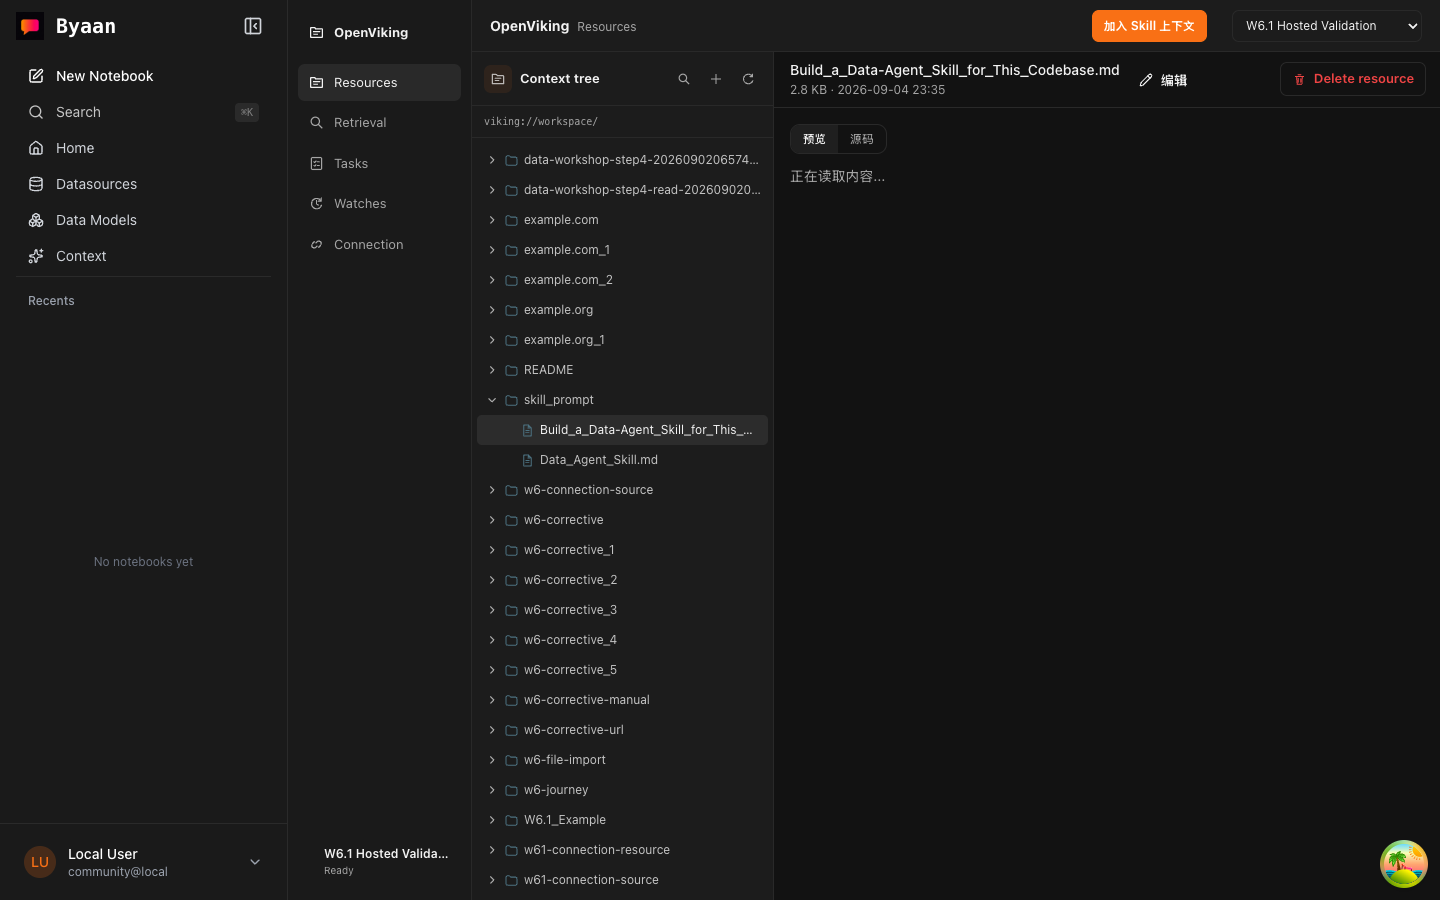
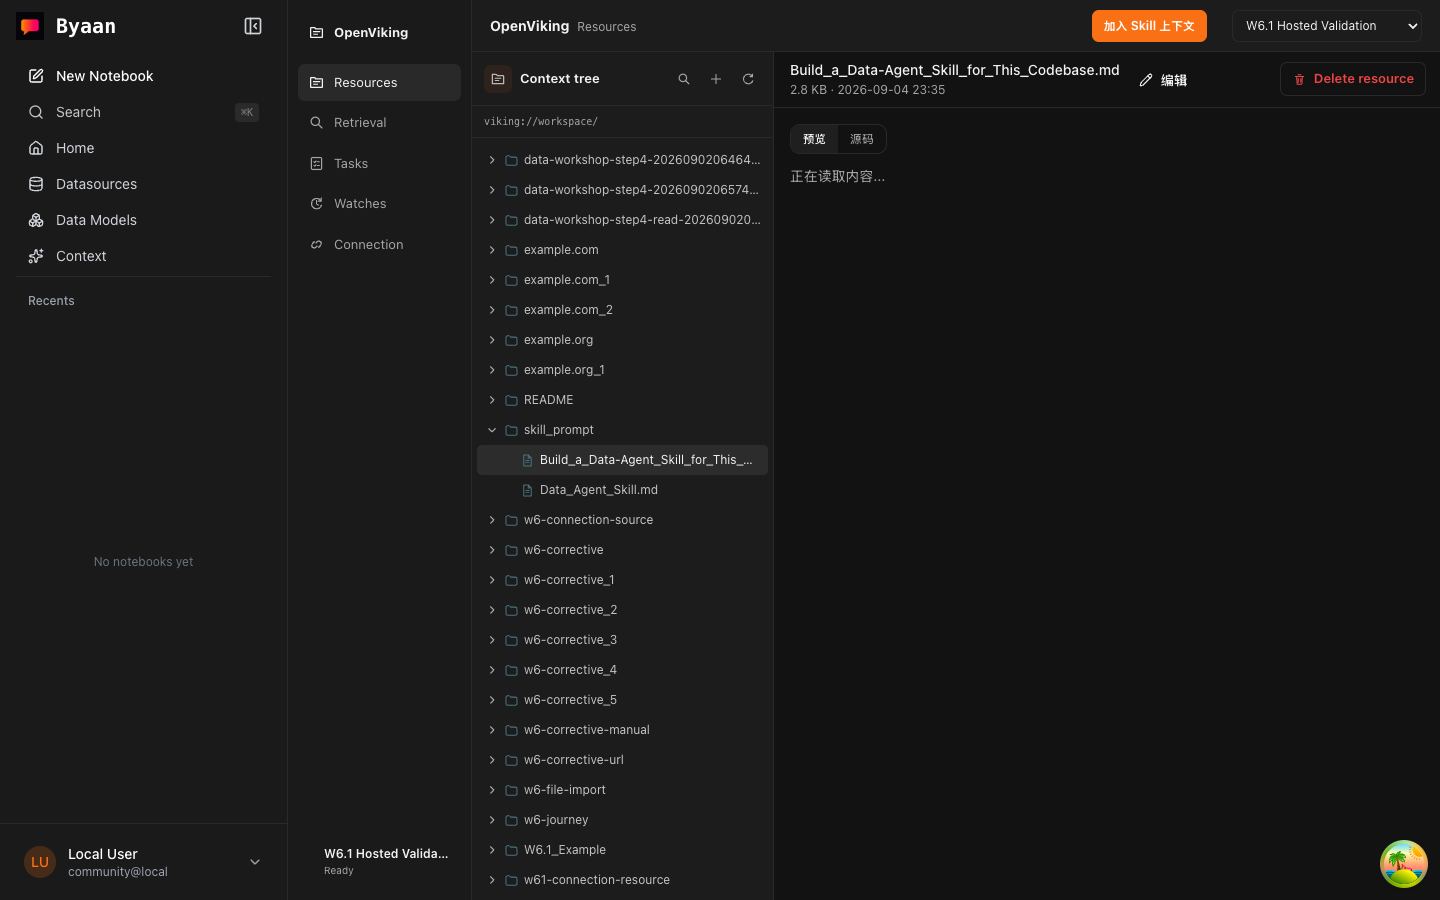
test(openviking): complete hosted validation evidence

Changed region(s): [[0.3438, 0.4044, 0.5, 0.5911], [0.375, 0.84, 0.4688, 0.9956], [0.375, 0.1556, 0.5312, 0.2489]]

diff --git a/client/src/features/openviking/OpenVikingWorkspace.test.tsx b/client/src/features/openviking/OpenVikingWorkspace.test.tsx
@@ -1,0 +1,37 @@
+import { render, screen } from '@testing-library/react'
+import { beforeEach, describe, expect, it, vi } from 'vitest'
+
+import { OpenVikingWorkspace } from './OpenVikingWorkspace'
+
+const apiMocks = vi.hoisted(() => ({
+  listProfiles: vi.fn(),
+}))
+
+vi.mock('./api', () => ({
+  openVikingApi: {
+    listProfiles: apiMocks.listProfiles,
+  },
+}))
+
+describe('OpenVikingWorkspace', () => {
+  beforeEach(() => {
+    window.localStorage.clear()
+    apiMocks.listProfiles.mockReset()
+  })
+
+  it('shows an actionable connection state when no profile exists', async () => {
+    apiMocks.listProfiles.mockResolvedValue([])
+
+    render(<OpenVikingWorkspace />)
+
+    expect(
+      await screen.findByRole('heading', { name: 'Add connection' }),
+    ).toBeTruthy()
+    expect(screen.getByLabelText('API key').getAttribute('type')).toBe('password')
+    expect(
+      (screen.getByRole('button', { name: 'Connect' }) as HTMLButtonElement)
+        .disabled,
+    ).toBe(false)
+    expect(screen.queryByRole('alert')).toBeNull()
+  })
+})

diff --git a/tests/test_openviking_bff.py b/tests/test_openviking_bff.py
@@ -167,6 +167,40 @@ def test_file_and_url_validation_fail_closed(tmp_path, monkeypatch):
         asyncio.run(value.import_text(profile, "note.pdf", "value", root))
 
 
+def test_import_url_rejects_private_network_resolution(tmp_path, monkeypatch):
+    value = service(tmp_path, monkeypatch)
+    monkeypatch.setattr(
+        openviking_module.socket,
+        "getaddrinfo",
+        lambda *_args, **_kwargs: [
+            (openviking_module.socket.AF_INET, openviking_module.socket.SOCK_STREAM, 6, "", ("10.0.0.8", 443)),
+        ],
+    )
+
+    with pytest.raises(OpenVikingError) as raised:
+        value.validate_import_url("https://internal.example/resource")
+
+    assert raised.value.code == "SSRF_BLOCKED"
+    assert raised.value.status_code == 422
+
+
+def test_upload_rejects_unsupported_and_oversized_files(tmp_path, monkeypatch):
+    value = service(tmp_path, monkeypatch)
+    profile = value.create("tenant", "workspace", "owner", "Hosted", "http://127.0.0.1:9000", "secret-key", "viking://resources/")
+    root = value.resource_ref(profile, profile.workspace_uri)
+
+    with pytest.raises(OpenVikingError) as unsupported:
+        asyncio.run(value.upload(profile, "payload.exe", "application/octet-stream", b"value", root))
+    assert unsupported.value.code == "UNSUPPORTED_FILE_TYPE"
+    assert unsupported.value.status_code == 415
+
+    monkeypatch.setattr(openviking_module, "MAX_UPLOAD_BYTES", 4)
+    with pytest.raises(OpenVikingError) as oversized:
+        asyncio.run(value.upload(profile, "payload.txt", "text/plain", b"value", root))
+    assert oversized.value.code == "PAYLOAD_TOO_LARGE"
+    assert oversized.value.status_code == 413
+
+
 def _mock_client(monkeypatch, handler):
     transport = httpx.MockTransport(handler)
     monkeypatch.setattr(

diff --git a/tests/test_openviking_routes.py b/tests/test_openviking_routes.py
@@ -3,6 +3,7 @@ from types import SimpleNamespace
 
 import pytest
 from fastapi import HTTPException
+from pydantic import ValidationError
 
 import server.routers.openviking as routes
 from server.routers.openviking import ContextRequest, OperationRequest, ProfileCreate
@@ -153,3 +154,13 @@ def test_missing_encryption_key_is_stable_configuration_error(monkeypatch, tmp_p
     assert unavailable.value.status_code == 503
     assert unavailable.value.detail["code"] == "OPENVIKING_UNAVAILABLE"
     assert "BLOCKED_UPSTREAM" not in str(unavailable.value.detail)
+
+
+def test_profile_create_rejects_missing_api_key():
+    with pytest.raises(ValidationError):
+        ProfileCreate(
+            display_name="Hosted",
+            base_url="https://api.vikingdb.cn-beijing.volces.com/openviking",
+            api_key="",
+            workspace_uri="viking://resources/",
+        )

diff --git a/docs/openviking/migration-mapping.md b/docs/openviking/migration-mapping.md
@@ -14,7 +14,7 @@ modifying that repository:
 | `LazyFilePreview` and file preview | `routes/resources/-components/lazy-file-preview.tsx`, `file-preview.tsx` | Read through the BFF reference endpoint; no browser upload path dependency. | Live `resource/read` 200 and browser marker preview |
 | `AddResourceForm` and import hooks | `routes/resources/-components/add-resource-page.tsx`, `resource-upload.ts`, BFF upload/text/connection routes | Keep donor import UX while adapting multipart upload and target Source Resource lookup. | Live text, URL, TXT, Markdown, PDF, CSV, JSON, XLSX, and Connection imports |
 | `RetrievalPage` and retrieval library | `routes/retrieval/**`, `lib/retrieval.ts` | Keep find/search/grep/glob UX; map `target_uri` to signed refs and allow all donor request fields. | Browser live find/search/grep/glob all HTTP 200 |
-| `TasksRoute` and task normalization | `routes/tasks/**` | Preserve hosted task status, detail, failure, and retry UI. | 26 hosted tasks rendered; completed and failed states; retry request reached hosted service |
+| `TasksRoute` and task normalization | `routes/tasks/**` | Preserve hosted task status, detail, failure, and retry UI. | Hosted tasks rendered; historical failure restored; live retry completed with 5 records rebuilt and 0 failed |
 | `WatchesRoute` and watch API | `routes/watches/**` | Preserve create, list, pause/resume, trigger, history, and delete operations through BFF item routes. | Live create/list/update/trigger/delete |
 | `KnowledgeSourceRef` / `ResourceRef` | `contracts.ts`, `lib/ov-client/client.ts`, `openviking_service.py` | Profile-bound HMAC capabilities replace raw URIs. Global hosted search results can only obtain refs from trusted BFF responses. | Ref tamper, cross-profile, unsigned-ref, and global-context tests |
 | Donor profile selection | `profile-selection.ts`, `OpenVikingWorkspace.tsx`, `api.ts` | Adapt profile CRUD to target standard envelopes; keep Pending/Ready/Error and never prefill credentials. | Live create/edit/validate/restart/revoke and wrong-key 401 |
@@ -38,11 +38,12 @@ modifying that repository:
 
 ## Verification
 
-- Backend: 23 tests passed.
-- Frontend: 30 files, 130 tests passed.
+- Backend: 26 tests passed.
+- Frontend: 31 files, 131 tests passed, including the no-profile connection state.
 - TypeScript, production build, Python compile, diff check, and secret scan passed.
 - OpenViking lint: 0 errors and 9 retained donor hook/refresh warnings.
-- Hosted task retry was exercised against a real failed historical task. The
-  approved hosted service rejected reindex with HTTP 502 because the original
-  resource no longer exists; the UI and BFF retry path were exercised without
-  fabricating a successful task.
+- Hosted task retry was exercised against real failed task
+  `660de695-de4a-4c4f-9ef8-4268af5202fb`. Restore task
+  `71f26799-40a5-47db-9134-3cbd5b16c7dc` and retry task
+  `a4939232-46fe-46ee-a4b6-09d7755b4ce6` both completed; the retry rebuilt 5
+  records with no failures.
